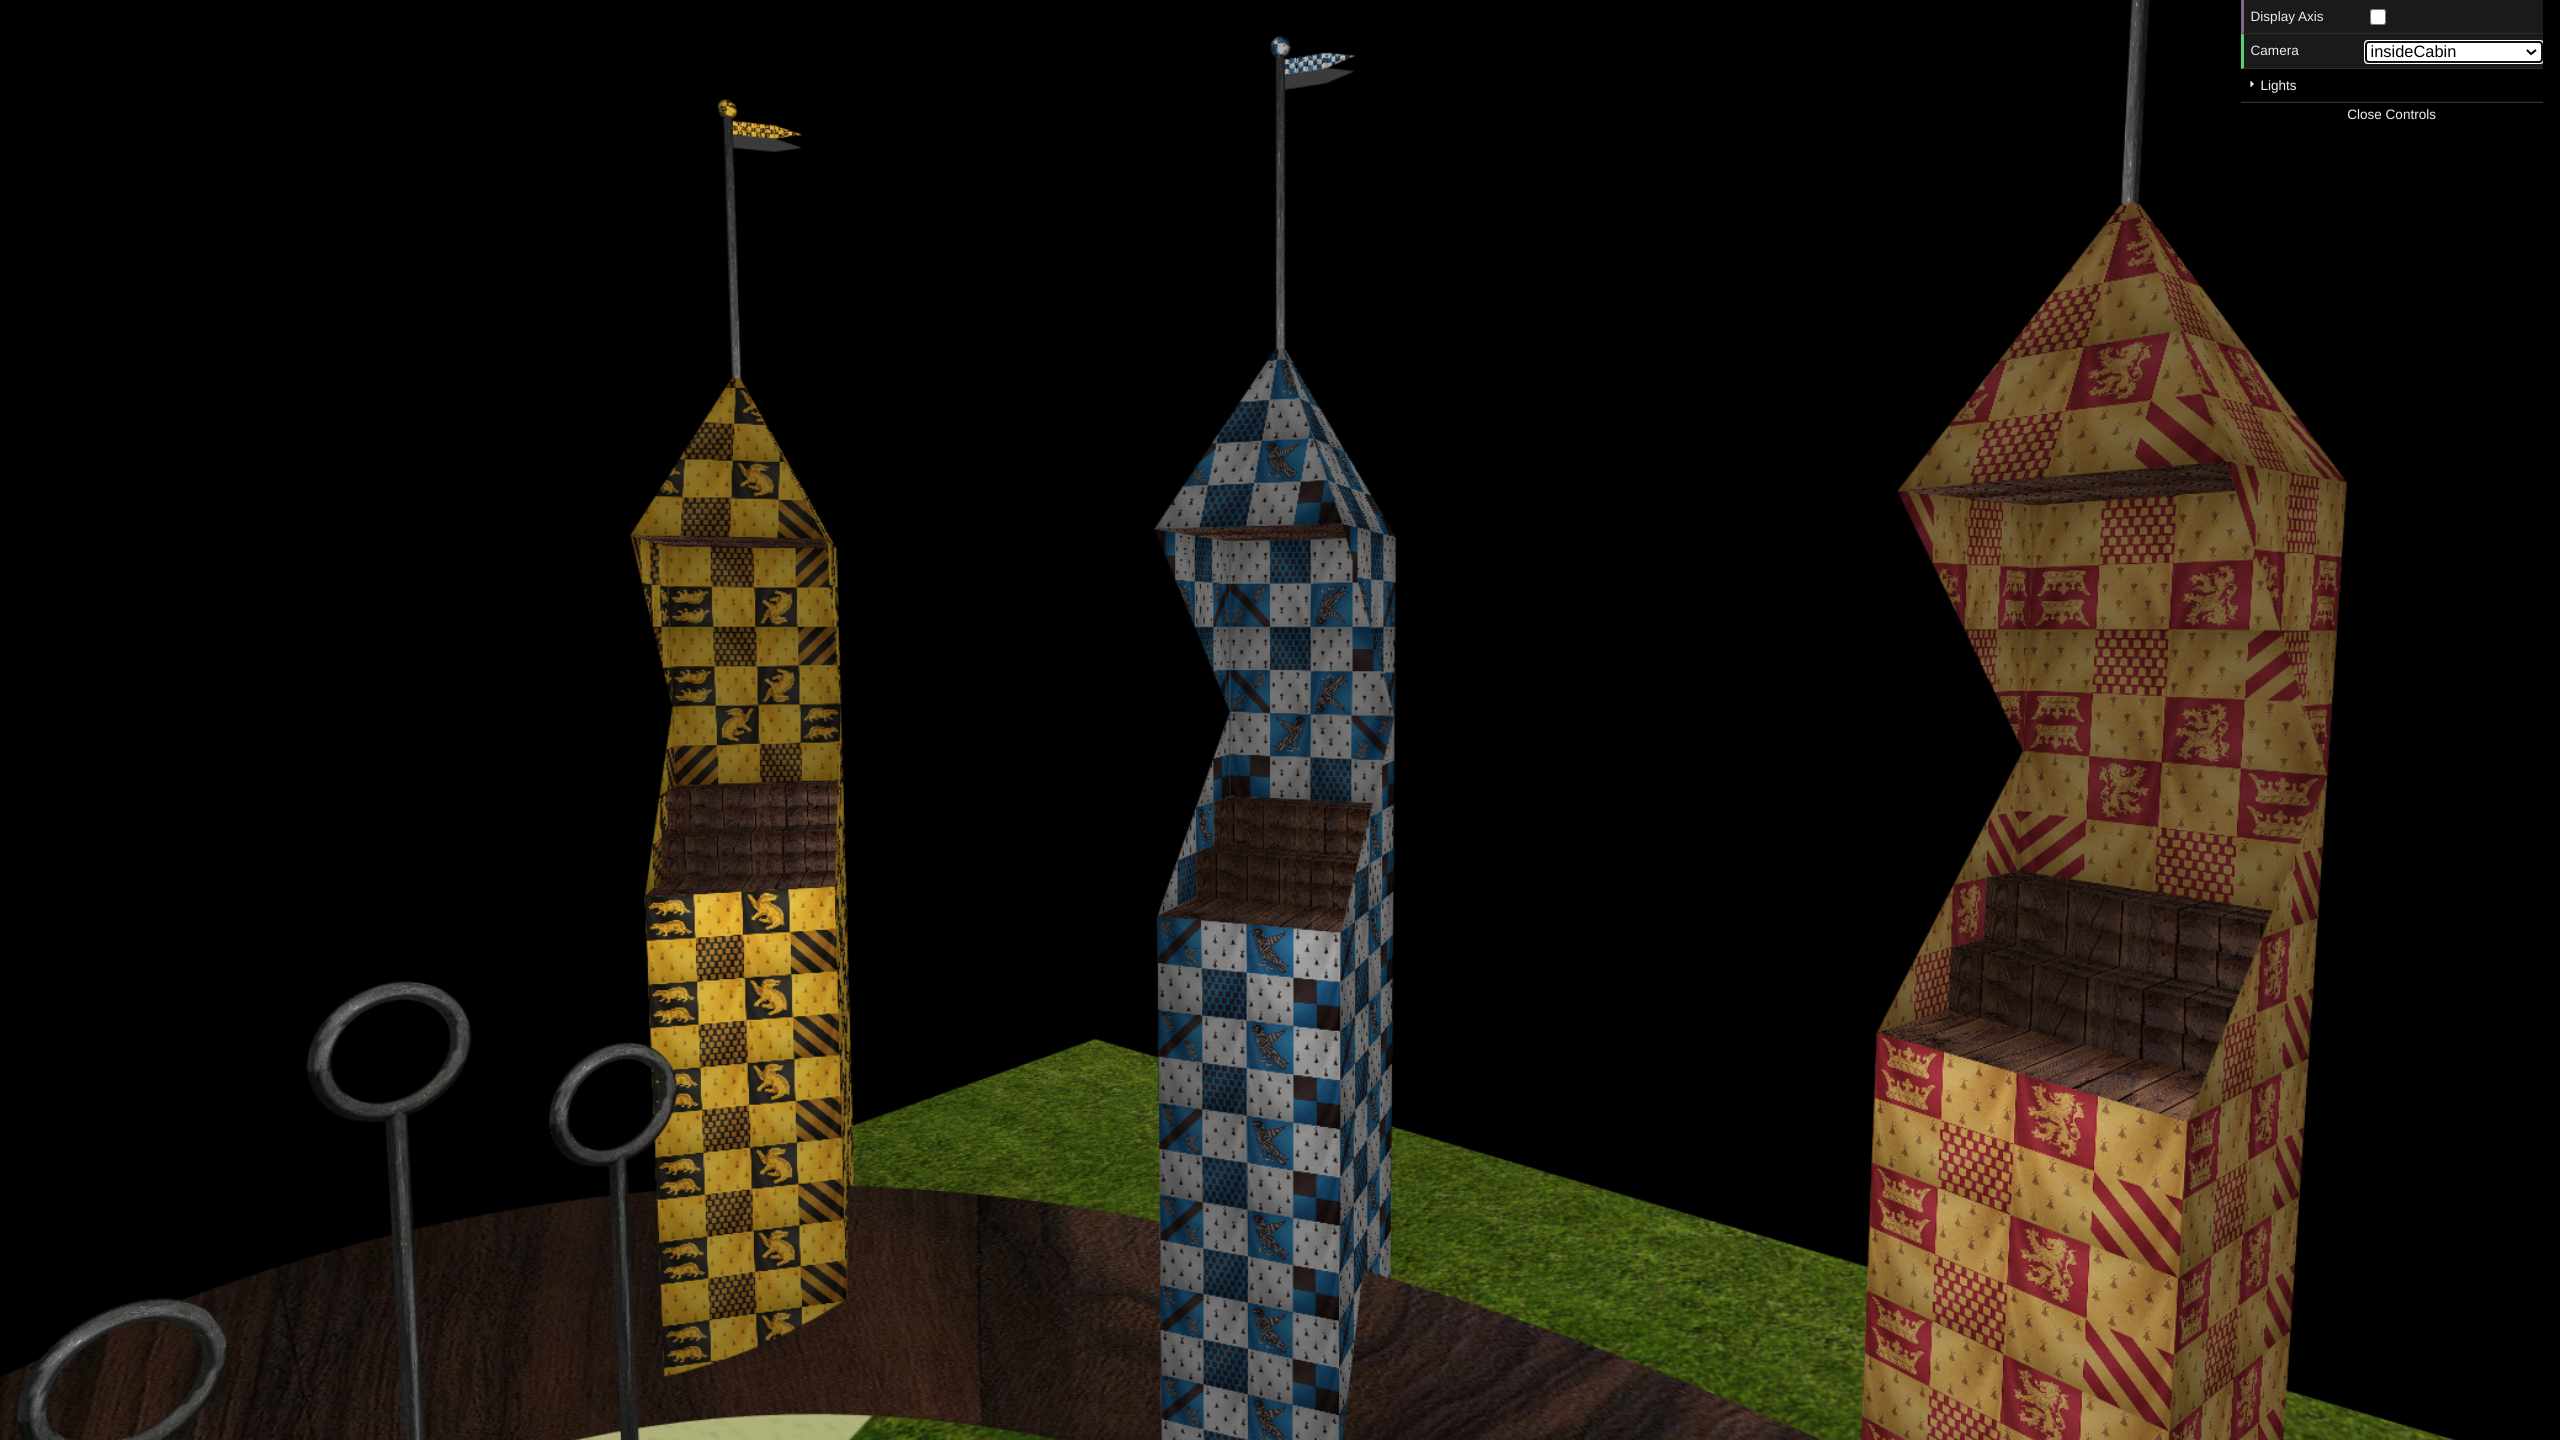
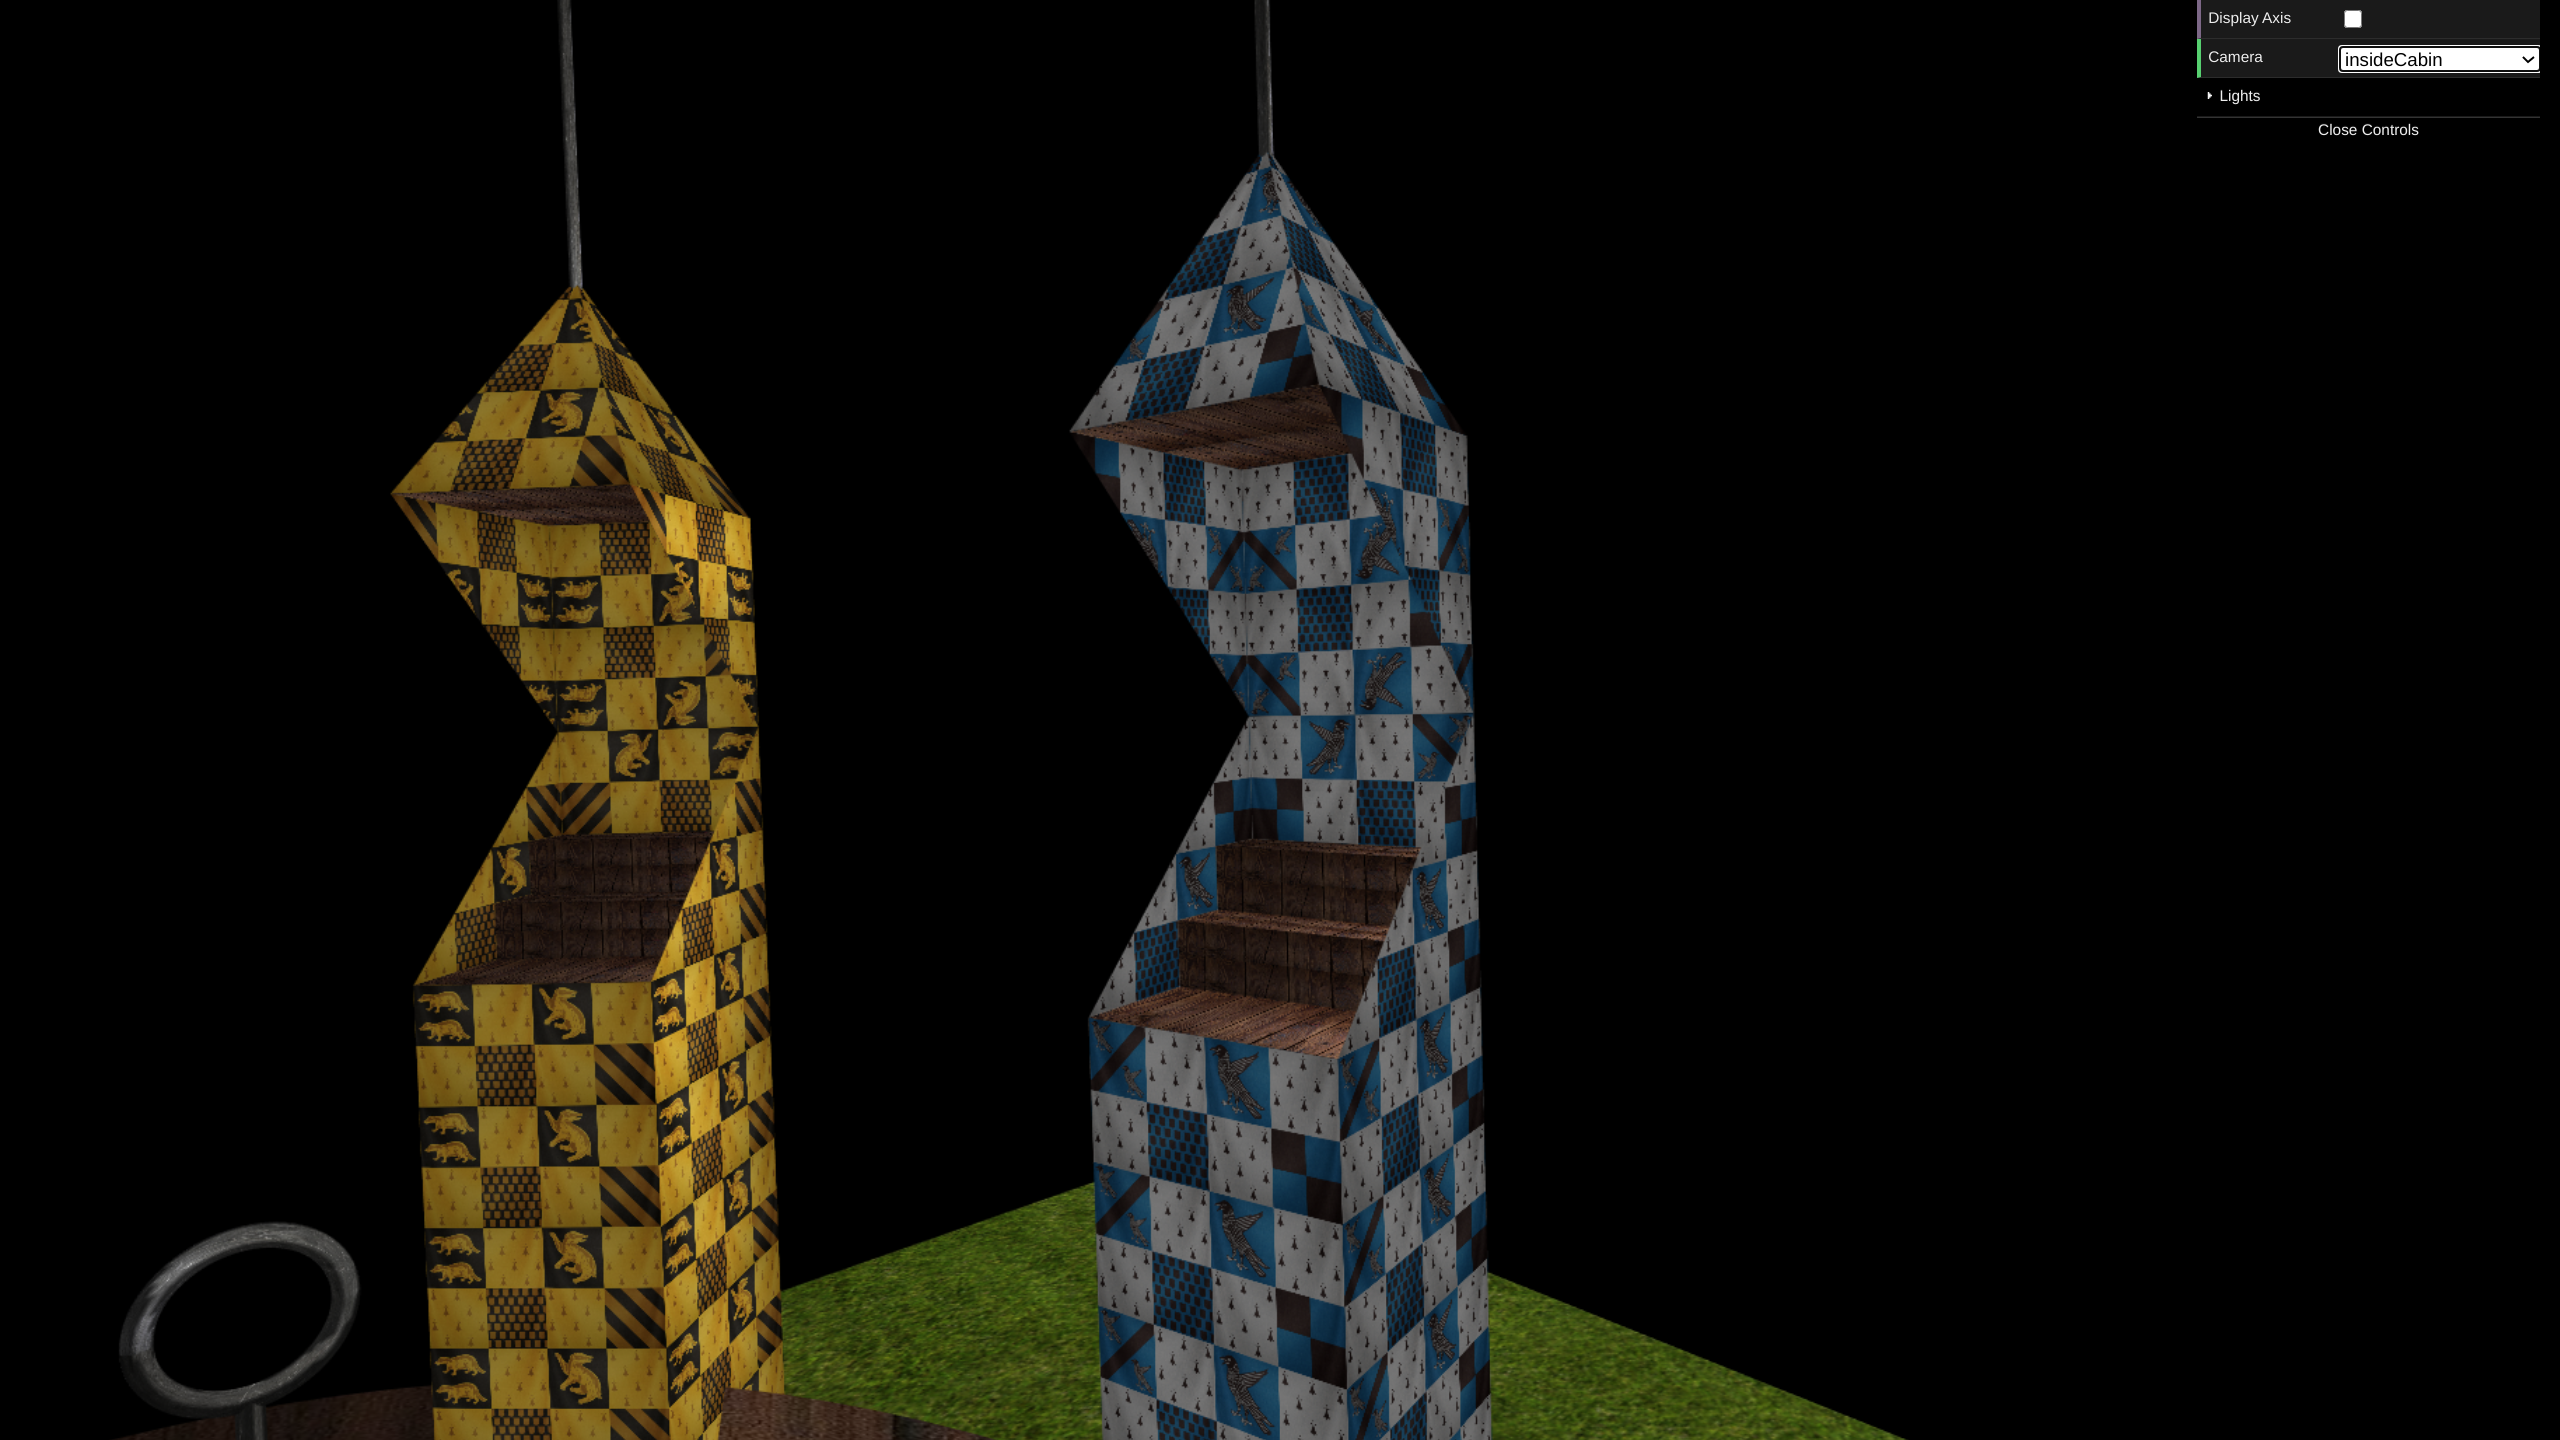
Small updates

diff --git a/TP1/XMLscene.js b/TP1/XMLscene.js
@@ -47,6 +47,7 @@ class XMLscene extends CGFscene {
         this.loadingProgress=0;
 
         this.defaultAppearance=new CGFappearance(this);
+        this.defaultAppearance.setTextureWrap('REPEAT', 'REPEAT');
     }
 
     /**
